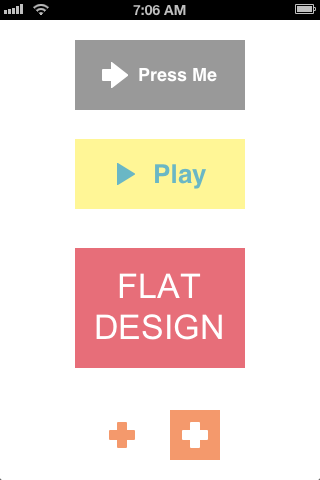
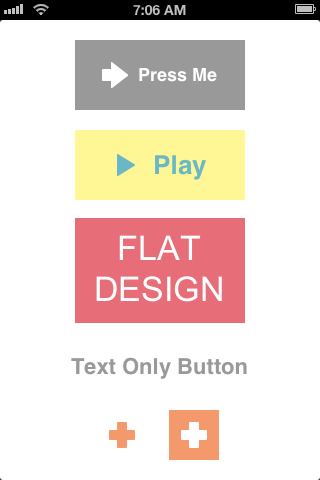
screenshots and readme

Changed region(s): [[0.2188, 0.25, 0.7812, 0.8125]]

diff --git a/README.md b/README.md
@@ -1,42 +1,45 @@
 # FlatButton
 
-A simple, light-weight flat design UI button for iOS.
+A simple, light-weight, flat design UI button for iOS.
 
 ![FlatButton Screenshot 1][1]
 
 ## About
 
-Following the recent trend in iOS toward flat design. Get hip. Embrace minimalism.
+Following recent trends toward flat design. Get hip. Embrace minimalism.
 
 * Simple, easy-to-use sublcass of `UIButton`
 * iOS 5.0+, ARC, Universal, Retina, Storyboards
 * Make flat buttons with text and/or images
 
 Free icons designed by [Darran Morris](https://twitter.com/darranmorris) at [APP-BITS](http://app-bits.com). Go show him some love.
-**See `App-Bits Icons/00_License.txt` and `App-Bits Icons/00_readme.pdf` for details**
+**See `App-Bits Icons/00_License.txt` and `App-Bits Icons/00_readme.pdf` for details on icon usage**
 
 ## Installation
 
-* Drag the `FlatButton/` folder to your project.
+* Drag the `FlatButton/` folder to your project
 * Initialize buttons
 	* To create buttons programmatically:
-		* Use the [`UIButton`][2] API `buttonWithType:` with `UIButtonTypeCustom`, or `initWithFrame:`
-		* Or, `initWithFrame: backgroundColor: foregroundColor:`
+		* Call `initWithFrame: backgroundColor: foregroundColor:`
+		* Or, use the [`UIButton`][2] API `buttonWithType:` with `UIButtonTypeCustom`, or `initWithFrame:`
 	* To create buttons with Storyboards:
 		* Drag a `UIButton` to your view
 		* Set its class to `JSFlatButton` and button type to `Custom` in Interface Builder
-		* Set your `IBOutlet` and `IBAction` appropriately
-* Set `UIColor` properties `buttonBackgroundColor` and `buttonForegroundColor`
+		* Set your `IBOutlet` and `IBAction` accordingly
+* Set button properties `buttonBackgroundColor` and `buttonForegroundColor`
 * **Colors must be set in HSB color space**
 	* Use [`UIColor`][3] API `colorWithHue: saturation: brightness: alpha:`
-* Use `setFlatTitle:` and `setFlatImage:` to set the button title and image, respectively
+* Call `setFlatTitle:` and `setFlatImage:` to set the button title and image, respectively
 * You may set your button title font and other attributes as you normally would with `UIButton`
 * *Special Options*
-	* To use make a flat button with an *image-only* and **no** background color:
+	* Set `shouldHighlightImage` to `YES` to optionally highlight the button image when pressed
+	* Set `shouldHighlightText` to `YES`to optionally highlight the button title text when pressed
+	* To make a flat button with an *image-only* and **no** background color:
 		* Set `buttonBackgroundColor` to `nil`
 		* Set `shouldHighlightImage` to `YES`
 		* Set your `buttonForegroundColor` to whatever you want
 		* Call `setFlatTitle:` with `nil`
+	* Similarly, you can make a flat button with *text-only* and **no** background color
 * See included demo project: `FlatButtonDemo.xcodeproj` 
 
 ## License
